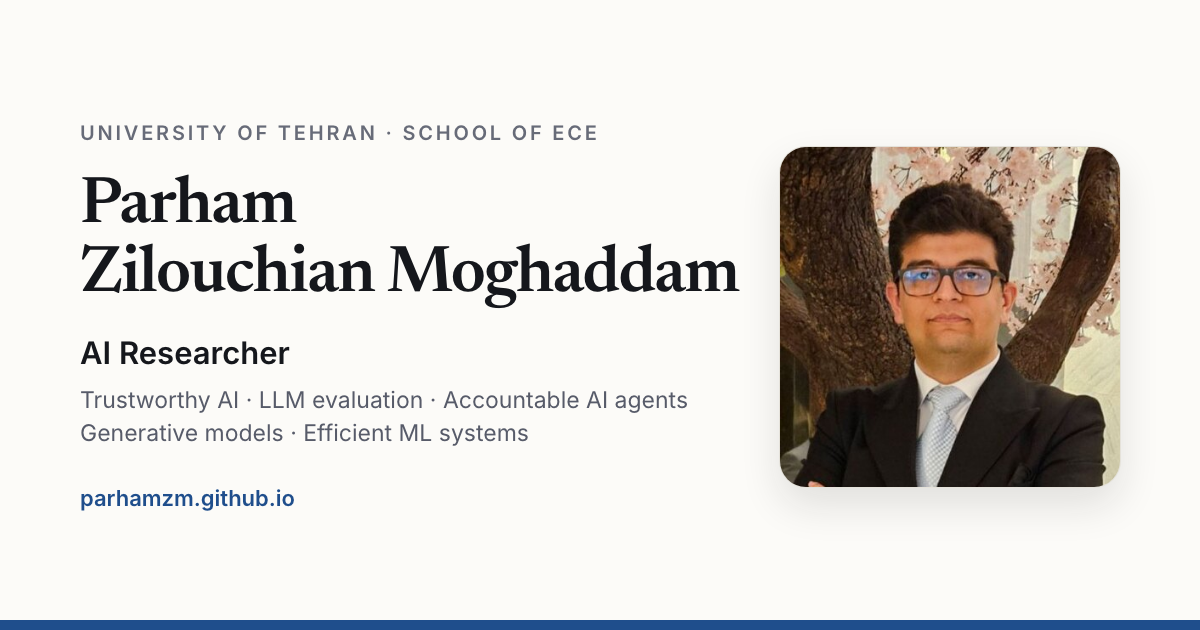
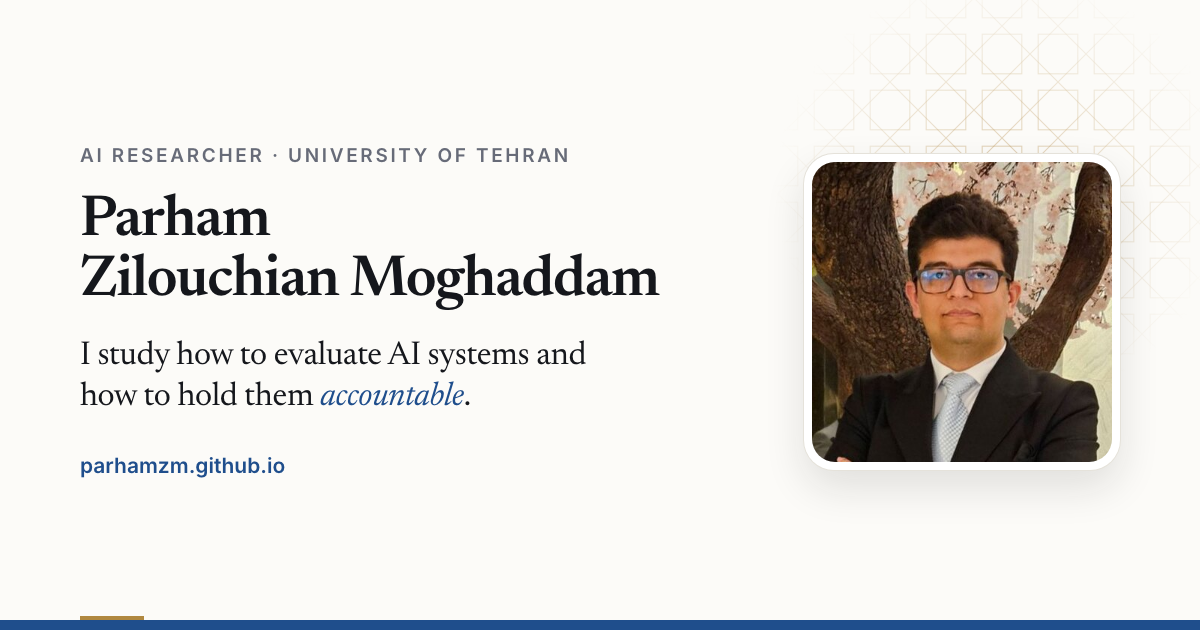
refactor: update website layout semantics, styles, and assets

diff --git a/assets/style.css b/assets/style.css
@@ -565,11 +565,11 @@ html:not(.js) .js-theme { display: none !important; }
 /* faint eight-pointed-star lattice behind the statement, fading out */
 .motif {
   position: absolute; z-index: -1;
-  top: -56px; right: -40px;
-  width: min(480px, 78%); height: 340px;
+  top: -30px; right: -36px;
+  width: min(460px, 70%); height: 330px;
   pointer-events: none;
-  -webkit-mask-image: radial-gradient(closest-side at 62% 44%, #000 0%, rgba(0, 0, 0, .55) 45%, transparent 100%);
-          mask-image: radial-gradient(closest-side at 62% 44%, #000 0%, rgba(0, 0, 0, .55) 45%, transparent 100%);
+  -webkit-mask-image: radial-gradient(closest-side at 64% 46%, #000 0%, rgba(0, 0, 0, .5) 50%, transparent 100%);
+          mask-image: radial-gradient(closest-side at 64% 46%, #000 0%, rgba(0, 0, 0, .5) 50%, transparent 100%);
 }
 
 .intro-statement {
@@ -588,7 +588,7 @@ html:not(.js) .js-theme { display: none !important; }
 .interests li {
   padding: 5px 12px;
   border: 1px solid var(--accent-edge); border-radius: 999px;
-  background: color-mix(in srgb, var(--accent-wash) 85%, transparent); color: var(--accent);
+  background: var(--accent-wash); color: var(--accent);
   font-size: var(--fs-xs); font-weight: 500; line-height: 1.4;
 }
 
@@ -613,21 +613,22 @@ html:not(.js) .js-theme { display: none !important; }
 
 .themes { list-style: none; margin: 0; padding: 0; }
 .theme {
-  display: grid; grid-template-columns: 46px minmax(0, 1fr); gap: 18px;
+  display: grid; grid-template-columns: 48px minmax(0, 1fr); gap: 18px;
   padding: 18px 0;
   border-top: 1px solid var(--line-soft);
 }
 .theme:first-child { border-top: 0; padding-top: 2px; }
 .theme-icon {
   display: grid; place-items: center;
-  width: 46px; height: 46px;
+  width: 48px; height: 48px;
   border: 1px solid var(--accent-edge); border-radius: 12px;
   background: var(--accent-wash); color: var(--accent);
 }
-.theme-icon .i { width: 22px; height: 22px; stroke-width: 1.5; }
+.theme-icon .i { width: 26px; height: 26px; stroke-width: 1.4; }
 .theme-title { font-size: 1.1875rem; line-height: 1.35; letter-spacing: -0.006em; }
 .theme p { margin-top: 5px; font-size: var(--fs-md); line-height: 1.6; max-width: 62ch; }
 .theme .theme-refs { margin-top: 6px; font-size: var(--fs-xs); color: var(--muted); }
+.theme-refs .ref { font-size: inherit; }
 
 /* ───────────────────────── 9. NEWS ───────────────────────── */
 .news { list-style: none; margin: 0; padding: 0; }
@@ -934,7 +935,7 @@ html:not(.js) .js-bib, html:not(.js) .copy-btn, html:not(.js) .js-copy-email { d
   .glance div { display: grid; grid-template-columns: 7rem minmax(0, 1fr); column-gap: 16px; align-items: baseline; padding: 11px 0; }
   .glance dt { padding-top: .1em; }
   .glance dd { margin: 0; }
-  .motif { top: -40px; right: -24px; width: 92%; height: 280px; }
+  .motif { top: -24px; right: -28px; width: 78%; height: 260px; opacity: .8; }
 }
 
 @media (max-width: 640px) {
@@ -952,9 +953,12 @@ html:not(.js) .js-bib, html:not(.js) .copy-btn, html:not(.js) .js-copy-email { d
   .pub-tile { flex-direction: row; gap: 7px; min-height: 0; padding: 3px 10px; justify-self: start; }
   .pub-main { grid-column: 1 / -1; }
 
+  .interests { gap: 6px; }
+  .interests li { padding: 3px 10px; font-size: var(--fs-2xs); }
+
   .theme { grid-template-columns: 40px minmax(0, 1fr); gap: 14px; }
   .theme-icon { width: 40px; height: 40px; border-radius: 11px; }
-  .theme-icon .i { width: 20px; height: 20px; }
+  .theme-icon .i { width: 23px; height: 23px; }
 }
 
 @media (max-width: 400px) {

diff --git a/index.html b/index.html
@@ -194,7 +194,7 @@
   <defs>
     <!-- eight-pointed star (khatam) lattice, after Persian tilework and carpet borders -->
     <pattern id="khatam" width="56" height="56" patternUnits="userSpaceOnUse">
-      <g style="fill: none; stroke: var(--gold); stroke-opacity: .5; stroke-width: 1">
+      <g style="fill: none; stroke: var(--gold); stroke-opacity: .38; stroke-width: 1">
         <rect x="8.2" y="8.2" width="39.6" height="39.6"/>
         <rect x="8.2" y="8.2" width="39.6" height="39.6" transform="rotate(45 28 28)"/>
       </g>
@@ -216,12 +216,12 @@
   <symbol id="i-arrow-up" viewBox="0 0 24 24"><path d="M12 19V5m0 0-6 6m6-6 6 6"/></symbol>
   <symbol id="i-chevron" viewBox="0 0 24 24"><path d="m6.5 9.5 5.5 5.5 5.5-5.5"/></symbol>
   <symbol id="i-shield" viewBox="0 0 24 24"><path d="M12 3.3 5 5.9v5.6c0 4.3 2.9 7.8 7 9.2 4.1-1.4 7-4.9 7-9.2V5.9z"/><path d="m8.9 12.1 2.2 2.2 4.2-4.3"/></symbol>
-  <symbol id="i-star" viewBox="0 0 24 24"><rect x="6.6" y="6.6" width="10.8" height="10.8"/><rect x="6.6" y="6.6" width="10.8" height="10.8" transform="rotate(45 12 12)"/><circle cx="12" cy="12" r="1.6"/></symbol>
+  <symbol id="i-star" viewBox="0 0 24 24"><path d="M21.5 12l-5.43 1.68 2.65 5.04-5.04-2.65L12 21.5l-1.68-5.43-5.04 2.65 2.65-5.04L2.5 12l5.43-1.68-2.65-5.04 5.04 2.65L12 2.5l1.68 5.43 5.04-2.65-2.65 5.04z"/></symbol>
   <symbol id="i-chip" viewBox="0 0 24 24"><rect x="6.8" y="6.8" width="10.4" height="10.4" rx="2"/><path d="M10 3.6v3.2M14 3.6v3.2M10 17.2v3.2M14 17.2v3.2M3.6 10h3.2M3.6 14h3.2M17.2 10h3.2M17.2 14h3.2"/><path d="M10 10h4v4h-4z"/></symbol>
 </svg>
 
 <!-- ══════════════════════ COMPACT BAR (narrow screens) ══════════════════════ -->
-<div class="topbar" id="topbar">
+<header class="topbar" id="topbar">
   <a class="topbar-brand" href="#top" aria-label="Parham Zilouchian Moghaddam, back to top">
     <svg class="brand-mark" aria-hidden="true"><use href="#i-mark"/></svg>
     <span class="brand-text" aria-hidden="true"><span class="brand-full">Parham Zilouchian Moghaddam</span><span class="brand-short">P. Z. Moghaddam</span></span>
@@ -250,12 +250,12 @@
       <li><a href="#contact">Contact</a></li>
     </ul>
   </nav>
-</div>
+</header>
 
 <div class="layout">
 
   <!-- ══════════════════════ PROFILE (sticky column on wide screens) ══════════════════════ -->
-  <header class="profile">
+  <section class="profile" aria-label="Profile">
     <div class="profile-card">
       <div class="portrait">
         <picture>
@@ -315,7 +315,7 @@
       <span class="i-to-dark" aria-hidden="true">Dark theme</span>
       <span class="i-to-light" aria-hidden="true">Light theme</span>
     </button>
-  </header>
+  </section>
 
   <div class="content">
   <main id="main" tabindex="-1">
@@ -1152,7 +1152,7 @@
         <dl class="contact-list">
           <div>
             <dt>Address</dt>
-            <dd><address>School of Electrical and Computer Engineering, University College of Engineering<br>University of Tehran, Tehran, Iran</address></dd>
+            <dd><address>School of Electrical and Computer Engineering<br>University College of Engineering, University of Tehran<br>Tehran, Iran</address></dd>
           </div>
           <div>
             <dt>CV</dt>
